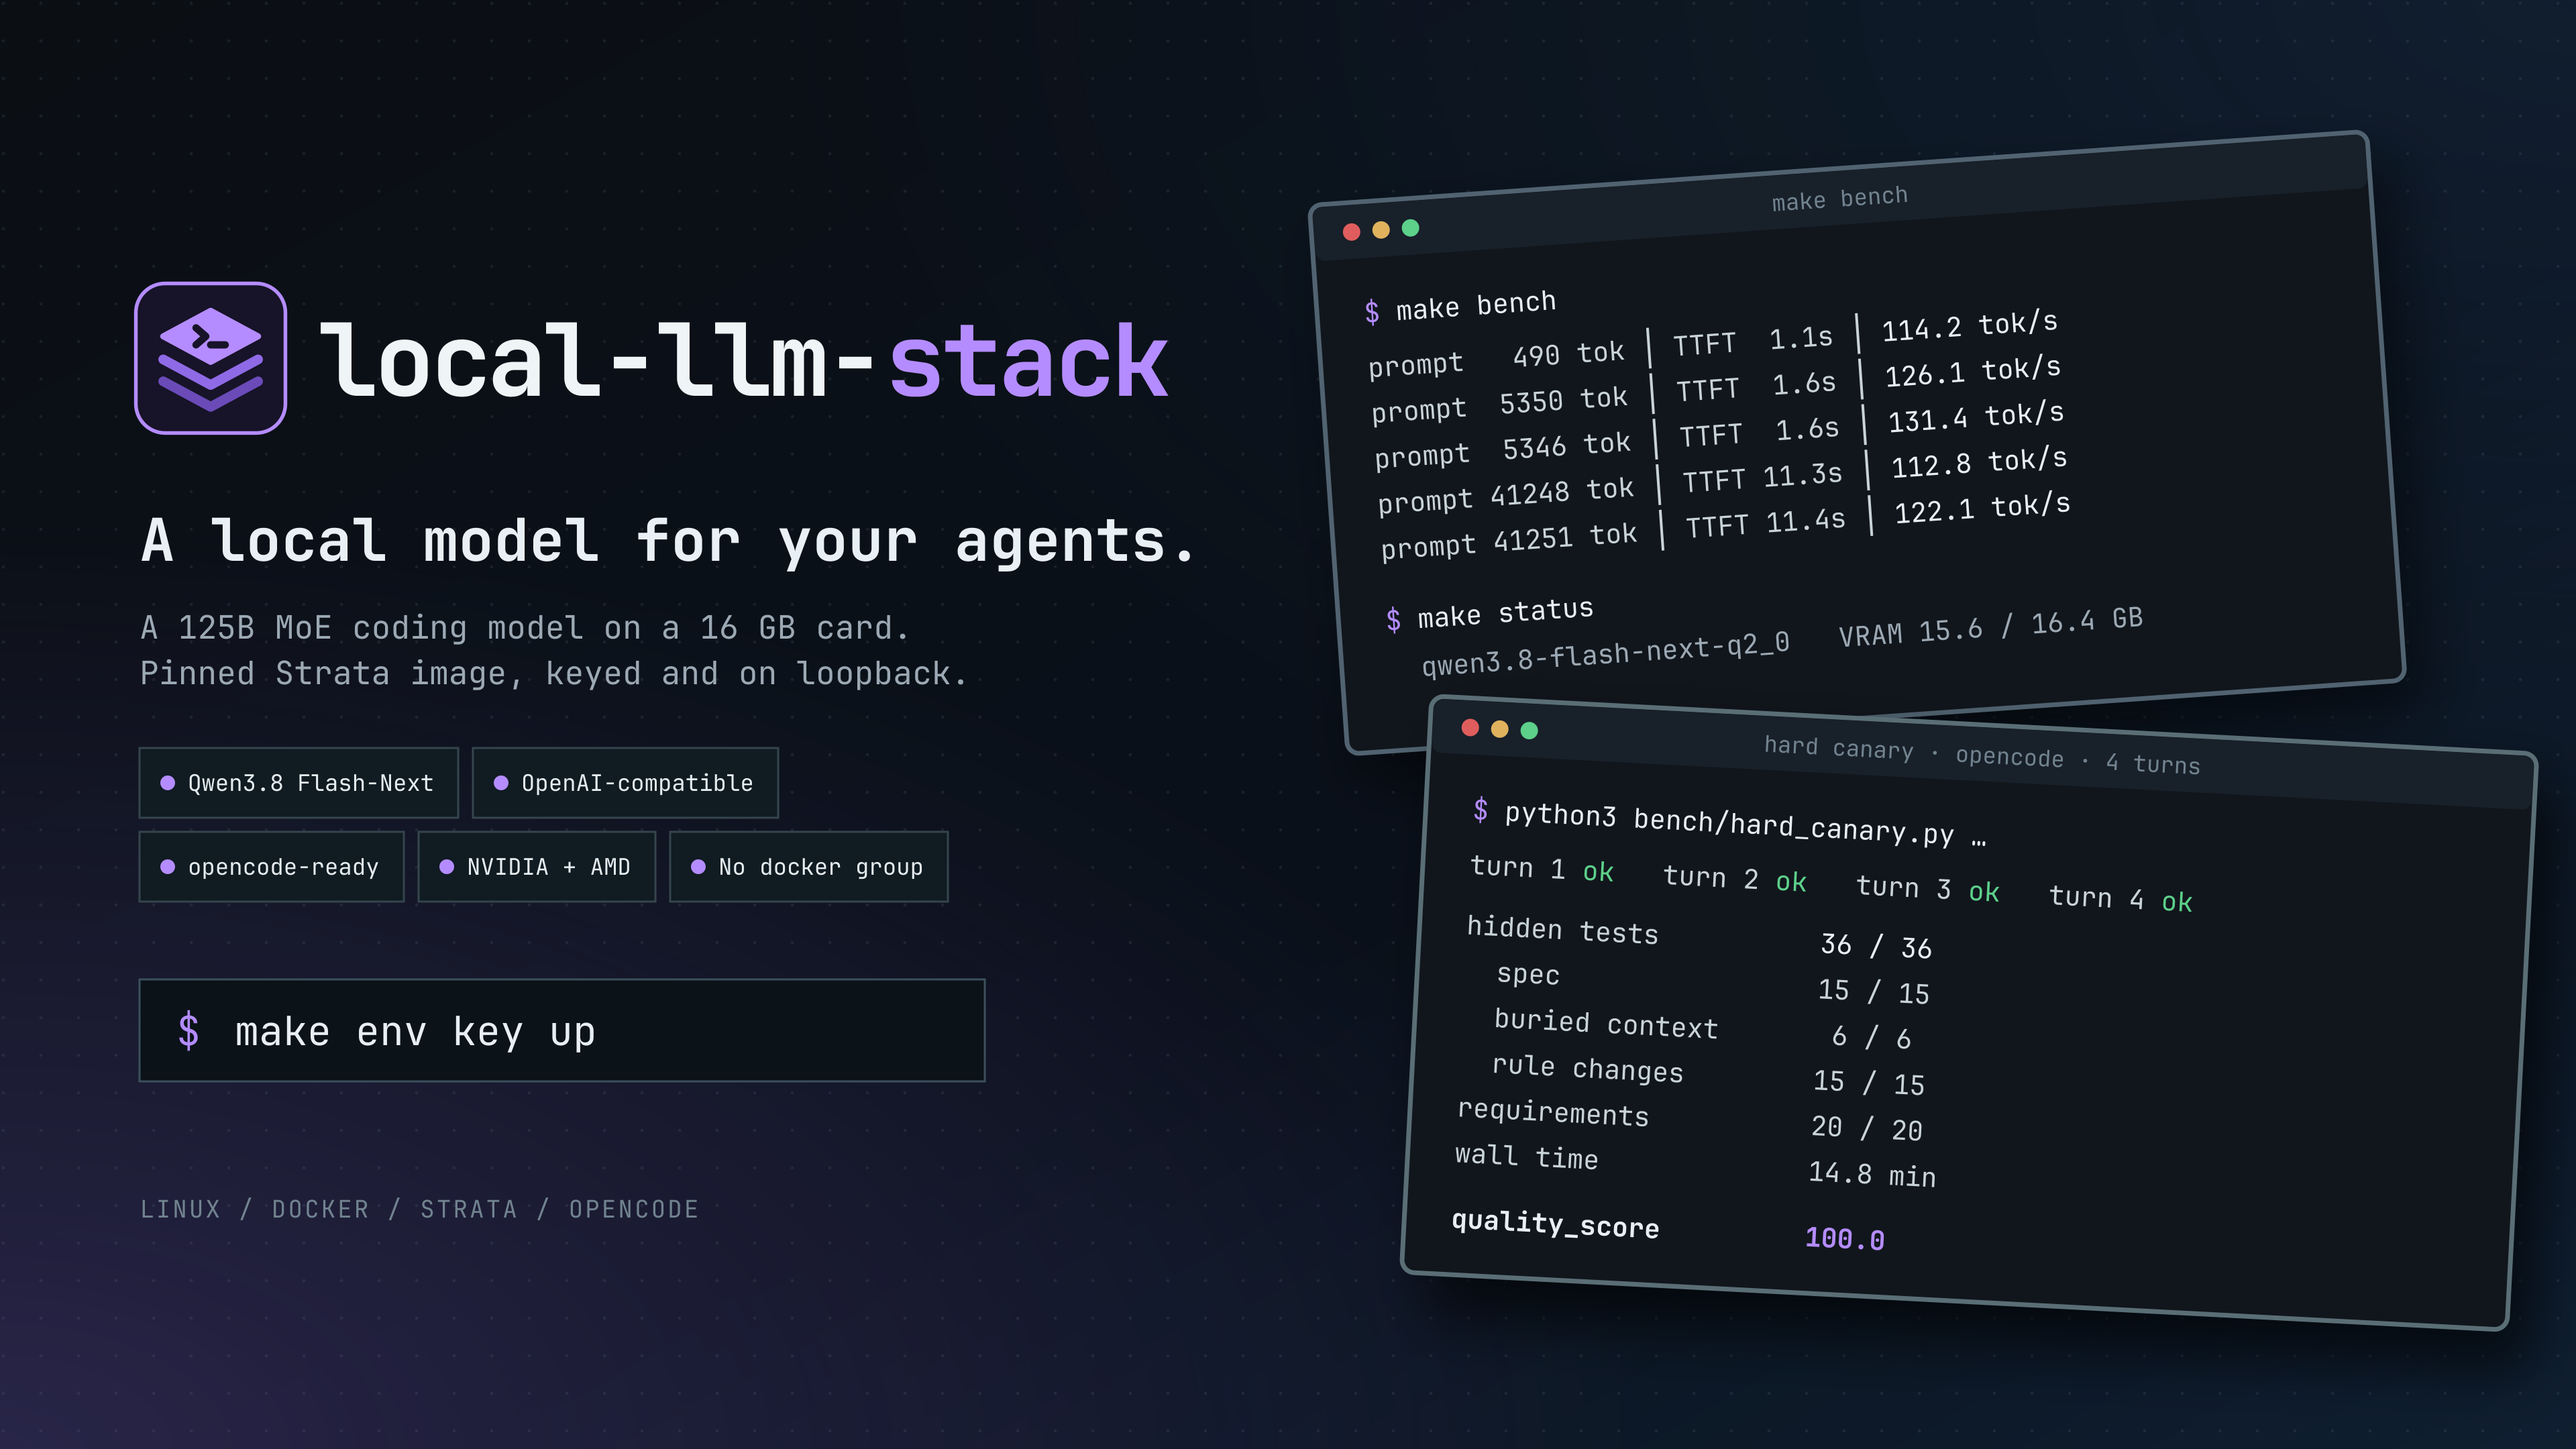
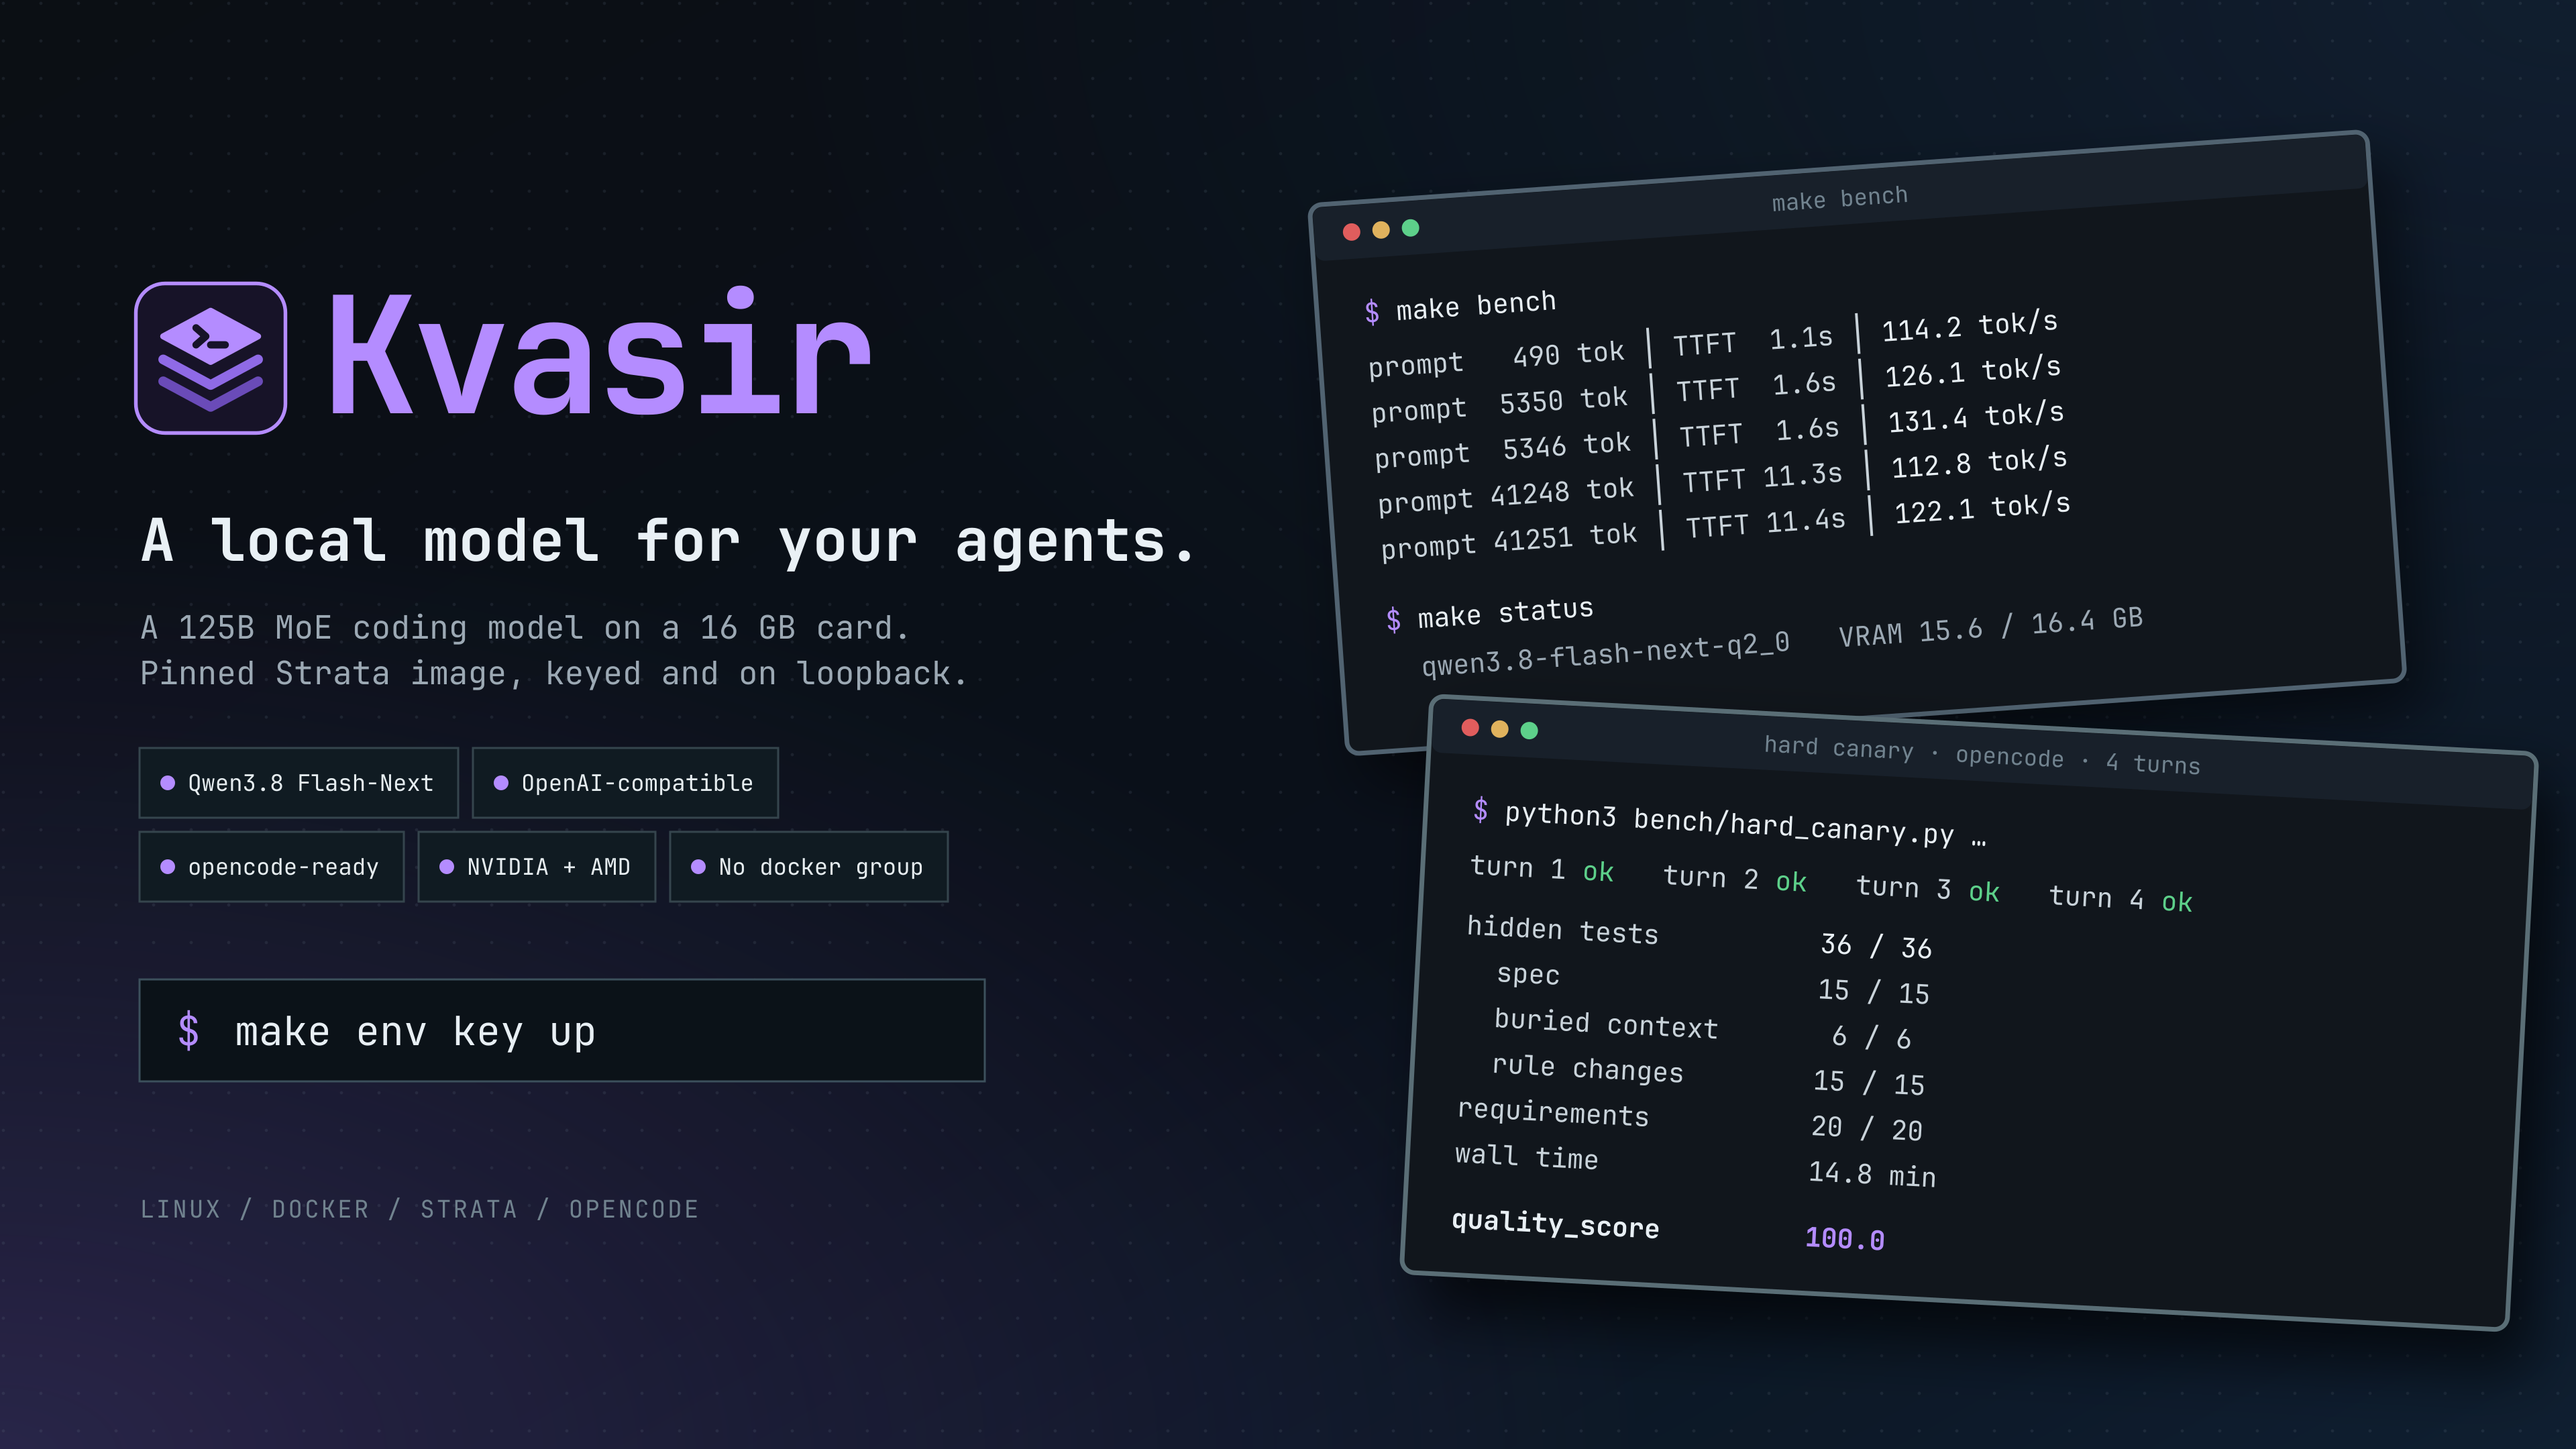
Rename the project to Kvasir
local-llm-stack described the contents but not the project. Kvasir, the
wisest being in Norse myth, made when the gods pooled their knowledge,
fits a model that answers from 512 pooled experts per layer and matches
the Norse names already used across the owner's homelab.

The wordmark becomes one word in the accent colour; the mark is
unchanged. The default key path for new installs moves to
~/.config/kvasir/, while an .env that names its key file keeps working.
Compose gets a fixed project name so make down and make restart reach
the same container regardless of the checkout directory's name.

Changed region(s): [[0.125, 0.1861, 0.4688, 0.3102]]

diff --git a/README.md b/README.md
@@ -1,11 +1,11 @@
-# <img src="icon.svg" alt="" width="32" height="32" align="top"> local-llm-stack
+# <img src="icon.svg" alt="" width="32" height="32" align="top"> Kvasir
 
-![local-llm-stack hero graphic with make bench output and a 100/100 hard canary result](preview.png)
+![Kvasir hero graphic with make bench output and a 100/100 hard canary result](preview.png)
 
 **A local, OpenAI-compatible endpoint for coding agents that runs a 125B
 mixture-of-experts model on a 16 GB graphics card.**
 
-local-llm-stack runs [Strata](https://github.com/Niko1221/Strata), from its
+Kvasir runs [Strata](https://github.com/Niko1221/Strata), from its
 official pinned image, serving Qwen3.8 Flash-Next. Strata keeps the most-used
 experts on the card, the rest in RAM, and a lookup shard on NVMe. The model
 choice follows Akita's
@@ -19,8 +19,8 @@ On an RTX 4080 with 60 GB of RAM it decodes at 113-131 tok/s and scored
 ## Quick start
 
 ```sh
-git clone https://github.com/mateuspim/local-llm-stack
-cd local-llm-stack
+git clone https://github.com/mateuspim/kvasir
+cd kvasir
 make env          # .env for this machine; then set STRATA_DATA_DIR (NVMe)
 make key          # API key, mode 600
 make plan         # what would download; changes nothing
@@ -60,7 +60,7 @@ Details and other sizes: [choose hardware and a model](docs/guide/hardware.md).
 ```sh
 make down
 rm -rf "$STRATA_DATA_DIR"            # model data, ~105 GB
-rm ~/.config/local-llm/strata.key    # or your STRATA_KEY_FILE
+rm ~/.config/kvasir/strata.key    # or your STRATA_KEY_FILE
 ```
 
 Nothing else was installed on the host.

diff --git a/AGENTS.md b/AGENTS.md
@@ -1,9 +1,9 @@
-# local-llm-stack agent instructions
+# Kvasir agent instructions
 
-local-llm-stack runs a local, OpenAI-compatible LLM endpoint for coding agents:
+Kvasir runs a local, OpenAI-compatible LLM endpoint for coding agents:
 one [Strata](https://github.com/Niko1221/Strata) container, driven by Docker
 Compose and a Makefile, serving Qwen3.8 Flash-Next on a consumer GPU. Public at
-https://github.com/mateuspim/local-llm-stack. The README is the user manual;
+https://github.com/mateuspim/kvasir. The README is the user manual;
 `docs/architecture.md` says how the parts fit, `docs/adr/` why, `docs/specs/`
 what the contracts are, `docs/guide/` how to use each piece.
 
@@ -13,7 +13,7 @@ what the contracts are, `docs/guide/` how to use each piece.
   access and is chosen by `GPU_VENDOR`; `Makefile` is the only entry point
   people should need; `scripts/` holds the config tests and the speed canary.
   There is no application code: behaviour lives in the upstream image.
-- Naming: container and compose service `strata`; variables are the ones in
+- Naming: compose project `kvasir`; container and compose service `strata`; variables are the ones in
   `.env.example` and [docs/specs/configuration.md](docs/specs/configuration.md);
   model ids are `qwen3.8-flash-next-<model lowercased>`.
 - Docker only through `$(DOCKER)`, default `pkexec docker`. Never add a user to

diff --git a/docs/specs/configuration.md b/docs/specs/configuration.md
@@ -11,7 +11,7 @@ variables exported in your shell are **not** seen by compose: put them in
 | Variable | Default | Required | Meaning |
 | --- | --- | --- | --- |
 | `STRATA_DATA_DIR` | `/srv/strata-data` | yes | Absolute host path mounted at `/data`. Holds GGUFs, the prepared pack, the MTP draft, presets and logs (~105 GB for Q2_0). Must exist before `make up`. Put it on NVMe ([ADR 5](../adr/0005-keep-model-data-on-nvme.md)). |
-| `STRATA_KEY_FILE` | `$HOME/.config/local-llm/strata.key` (written by `make env`) | yes | Absolute path of the API key file, one line, mode 0600. Mounted as the compose secret `strata_key`. |
+| `STRATA_KEY_FILE` | `$HOME/.config/kvasir/strata.key` (written by `make env`) | yes | Absolute path of the API key file, one line, mode 0600. Mounted as the compose secret `strata_key`. |
 | `STRATA_PORT` | `8080` | no | Host port, always bound to `127.0.0.1`. |
 | `GPU_VENDOR` | `nvidia` | no | Picks `compose/<vendor>.yml`: `nvidia` or `amd`. |
 | `STRATA_IMAGE` | `ghcr.io/niko1221/strata:0.2.7-cuda13` | no | Pinned image ([ADR 6](../adr/0006-pin-the-image-tag.md)). Pick the flavor for your card in the [hardware guide](../guide/hardware.md). |

diff --git a/docs/branding.md b/docs/branding.md
@@ -1,4 +1,8 @@
-# local-llm-stack brand assets
+# Kvasir brand assets
+
+Kvasir is the wisest being in Norse myth, made when the gods pooled their
+knowledge into one. The name fits a mixture-of-experts model: one answer
+drawn from 512 experts per layer.
 
 The mark is three stacked layers with a terminal prompt on the top one. The
 layers stand for where the model lives while it serves: VRAM, system RAM and
@@ -23,8 +27,8 @@ The logo SVGs and the preview inline the mark so they render standalone; keep
 the paths in sync when changing the icon. Wordmarks use live SVG text in
 JetBrainsMono Nerd Font, so the font can vary where it is not installed.
 
-Keep clear space around the mark, and the wordmark in lower case:
-**local-llm-stack**. This project has no UI to capture: the hero's terminal
+Keep clear space around the mark, and the wordmark as one word with a capital
+K: **Kvasir**, set entirely in the accent colour. This project has no UI to capture: the hero's terminal
 cards are drawn from real command output. The
 [development runbook](runbooks/development.md#refresh-the-preview) explains
 how to update and re-render them.

diff --git a/CHANGELOG.md b/CHANGELOG.md
@@ -2,6 +2,13 @@
 
 ## Unreleased
 
+- Rename the project to Kvasir. The repository moves to
+  `github.com/mateuspim/kvasir` (GitHub redirects the old URL), the default
+  key path for new installs becomes `~/.config/kvasir/strata.key`, and the
+  compose project is pinned to the name `kvasir`.
+  **Existing installs:** an `.env` that sets `STRATA_KEY_FILE` keeps working.
+  The running container belongs to the old compose project, so remove it
+  once with `pkexec docker rm -f strata`, then `make up`; model data is kept.
 - Serve Qwen3.8 Flash-Next Q2_0 with the official Strata image instead of
   llama-swap and llama.cpp. Measured on an RTX 4080 with 60 GB of RAM:
   113-131 tok/s decode, and 100/100 (36/36 hidden tests) on Akita's hard

diff --git a/CONTRIBUTING.md b/CONTRIBUTING.md
@@ -1,6 +1,6 @@
-# Contributing to local-llm-stack
+# Contributing to Kvasir
 
-Thanks for helping. local-llm-stack is a small project; issues and focused
+Thanks for helping. Kvasir is a small project; issues and focused
 pull requests are welcome. Results from hardware the project has not seen yet,
 especially AMD cards, are as useful as code.
 
@@ -14,8 +14,8 @@ especially AMD cards, are as useful as code.
 ## Set up
 
 ```sh
-git clone https://github.com/mateuspim/local-llm-stack
-cd local-llm-stack
+git clone https://github.com/mateuspim/kvasir
+cd kvasir
 make env      # writes .env; then set STRATA_DATA_DIR
 make key
 make test

diff --git a/docs/README.md b/docs/README.md
@@ -1,6 +1,6 @@
-# local-llm-stack documentation
+# Kvasir documentation
 
-## Use local-llm-stack
+## Use Kvasir
 
 - [README](../README.md): quick start, features and everyday commands.
 - [Choose hardware and a model](guide/hardware.md): what fits your GPU and RAM.
@@ -10,7 +10,7 @@
 - [Security and privileges](../SECURITY.md).
 - [Brand assets](branding.md).
 
-## Develop local-llm-stack
+## Develop Kvasir
 
 - [Architecture](architecture.md): components and data flow.
 - [Architecture decisions](adr/README.md): durable tradeoffs.

diff --git a/docs/guide/benchmarks.md b/docs/guide/benchmarks.md
@@ -57,7 +57,7 @@ The gateway runs on the host side of the sandbox, so the key never enters it.
 Then, from the benchmark checkout:
 
 ```sh
-BENCH_API_KEY=$(cat ~/.config/local-llm/strata.key) python3 bench/hard_canary.py \
+BENCH_API_KEY=$(cat ~/.config/kvasir/strata.key) python3 bench/hard_canary.py \
   --base-url http://127.0.0.1:8080/v1 --model qwen3.8-flash-next-q2_0 \
   --provider strata-docker --label my-run --output results/hard/my-run
 ```

diff --git a/SECURITY.md b/SECURITY.md
@@ -3,7 +3,7 @@
 ## Reporting a vulnerability
 
 Please report privately through GitHub's
-[security advisories](https://github.com/mateuspim/local-llm-stack/security/advisories/new)
+[security advisories](https://github.com/mateuspim/kvasir/security/advisories/new)
 rather than a public issue. Include the commit or release, the image tag from
 `.env`, steps to reproduce and impact. You can expect a reply within a week.
 

diff --git a/docs/architecture.md b/docs/architecture.md
@@ -1,6 +1,6 @@
 # Architecture
 
-local-llm-stack has no application code of its own. It is the configuration
+Kvasir has no application code of its own. It is the configuration
 that runs one upstream container safely and repeatably: a compose file, a GPU
 override, a Makefile, and two scripts. The model server is
 [Strata](https://github.com/Niko1221/Strata), from its official image.

diff --git a/docs/guide/opencode.md b/docs/guide/opencode.md
@@ -15,7 +15,7 @@ the provider yourself.
       "name": "Strata (local)",
       "options": {
         "baseURL": "http://127.0.0.1:8080/v1",
-        "apiKey": "{file:~/.config/local-llm/strata.key}"
+        "apiKey": "{file:~/.config/kvasir/strata.key}"
       },
       "models": {
         "qwen3.8-flash-next-q2_0": {

diff --git a/.github/ISSUE_TEMPLATE/bug_report.md b/.github/ISSUE_TEMPLATE/bug_report.md
@@ -11,7 +11,7 @@ labels: bug
 **Steps to reproduce**
 
 **Versions**
-- local-llm-stack commit or release:
+- Kvasir commit or release:
 - `STRATA_IMAGE`, `GPU_VENDOR`, `MODEL`, `CONTEXT` from `.env`:
 - GPU, VRAM, system RAM, driver version:
 - Docker and Compose versions (`docker version`, `docker compose version`):
